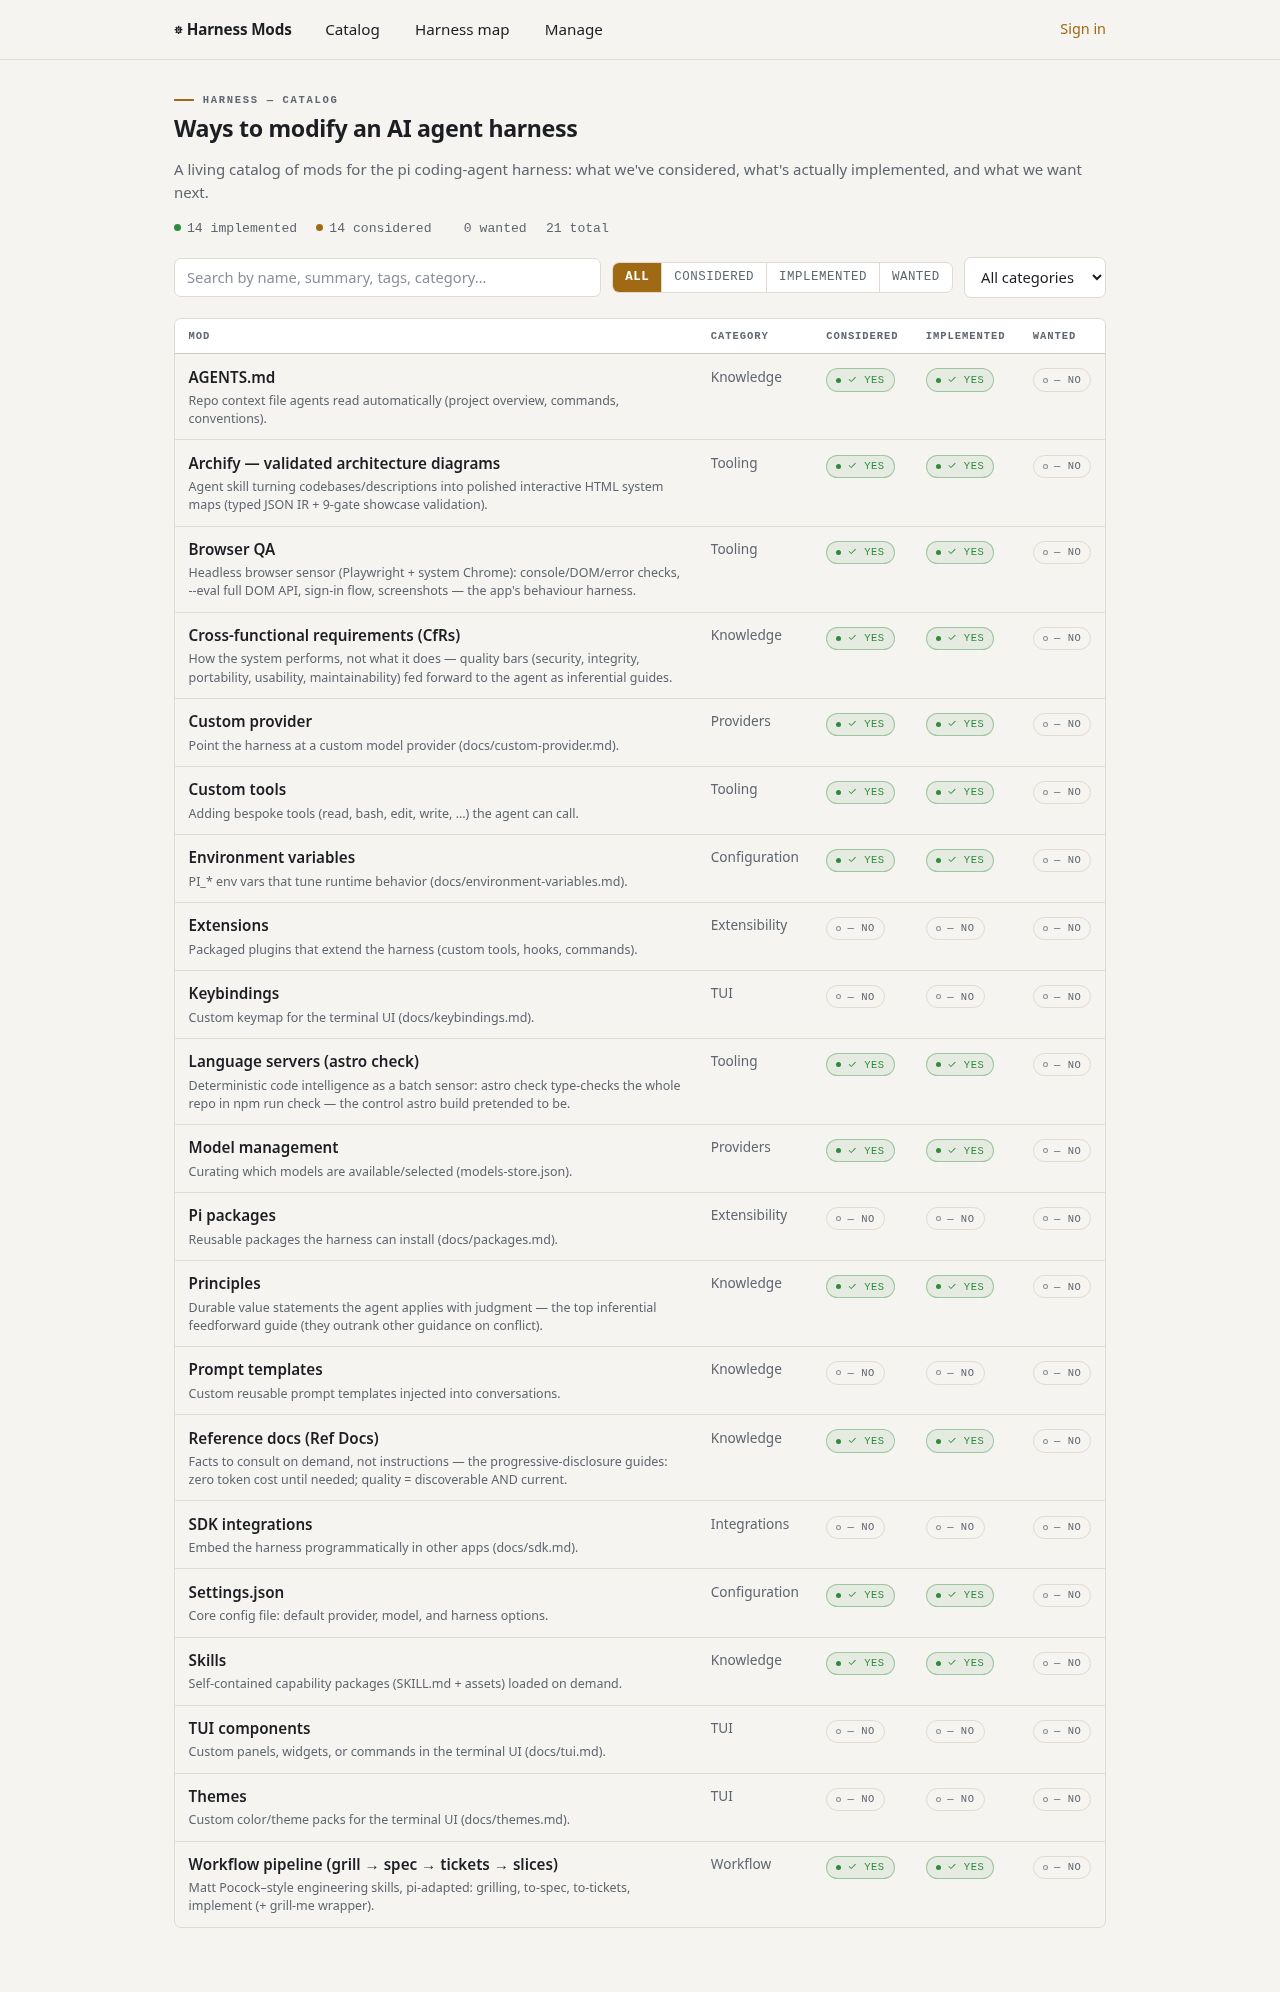
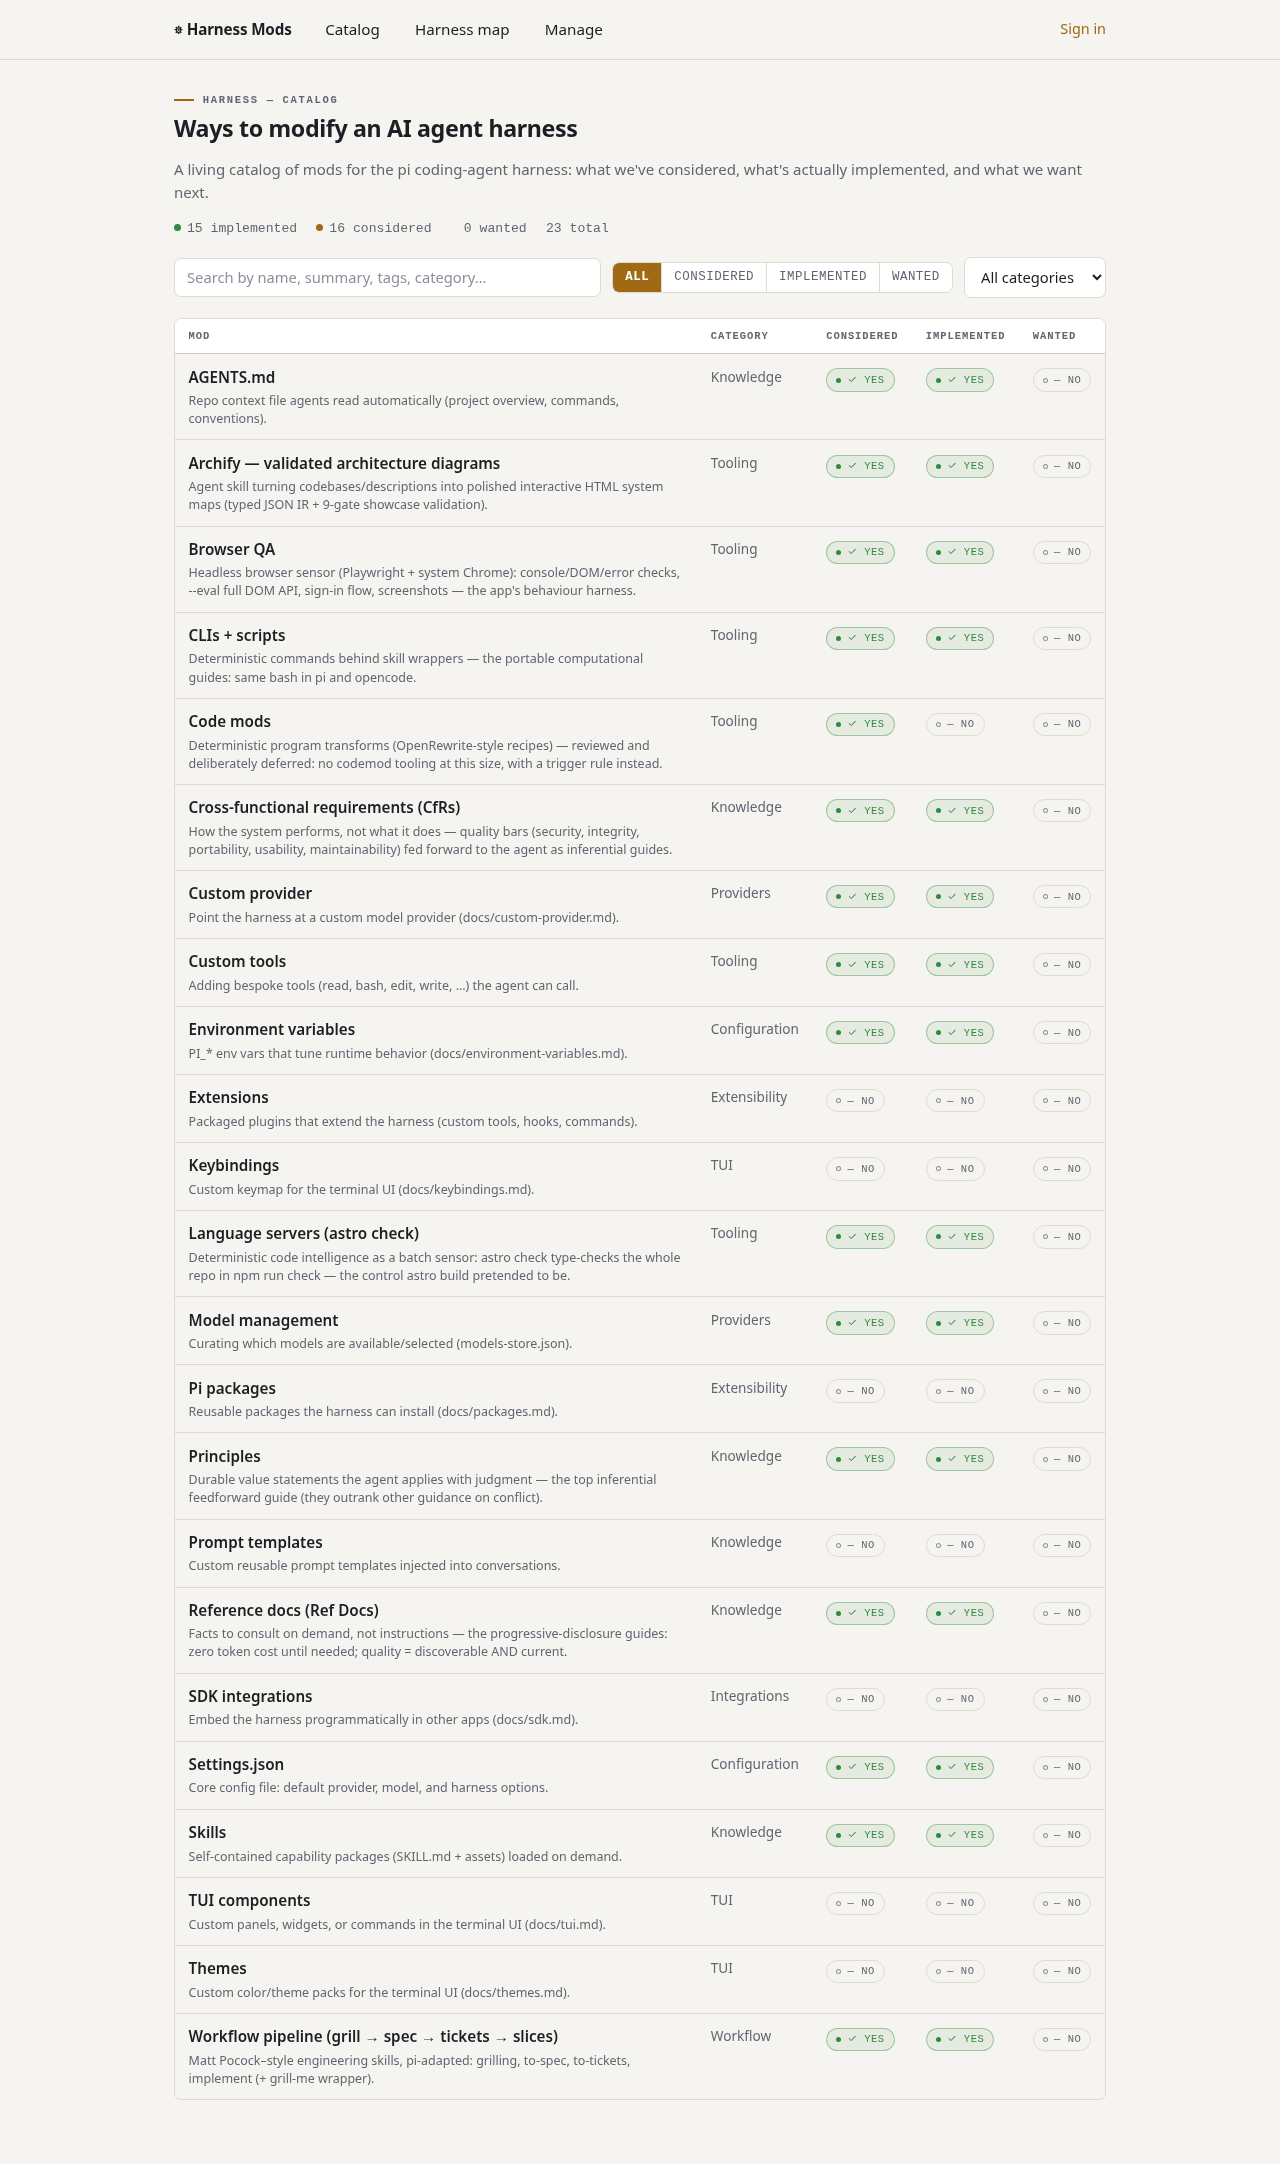
code mod

diff --git a/scripts/seed.ts b/scripts/seed.ts
@@ -412,6 +412,24 @@ Three placements: mid-loop via bash (facts, diagrams, browser evidence), check a
       { label: 'our review (fig 2)', url: 'docs/Harness review — feedforward guides.md' },
     ],
   },
+  {
+    title: 'Code mods',
+    category: 'Tooling',
+    summary: 'Deterministic program transforms (OpenRewrite-style recipes) — reviewed and deliberately deferred: no codemod tooling at this size, with a trigger rule instead.',
+    body: `Fig 2's last feedforward guide (computational): deterministic program transformations — AST rewrites, migration recipes, scaffolders — that put code in the desired shape without LLM judgment. The agent says "apply recipe X" instead of hand-editing dozens of files probabilistically.
+
+**Status: verified gap, not neglect (2026-09).** Grep finds only the word "codemods" in the article-summary doc; no jscodeshift / recast / OpenRewrite / scaffolders anywhere. Rationale: ~30-file single-user tool — every candidate change is rare and reads better as a reviewed hand-edit (Minimalism; the Performance/scalability CfR explicitly forbids over-engineering here).
+
+**Trigger rule instead of tooling:** the third occurrence of the same mechanical multi-file edit gets encoded as a script, shipped in skill + script form (see the CLIs + scripts mod). Named candidates: seed-mirror generation, repetitive Astro/API-route scaffolding, the TS 6→7 pin flip.`,
+    considered: true,
+    implemented: false,
+    wanted: false,
+    tags: ['codemods', 'feedforward', 'guides', 'deferred'],
+    links: [
+      { label: 'article — guides', url: 'https://martinfowler.com/articles/harness-engineering.html' },
+      { label: 'OpenRewrite recipes', url: 'https://docs.openrewrite.org/' },
+    ],
+  },
 ];
 
 async function upsertMods() {

diff --git a/docs/Harness decisions.md b/docs/Harness decisions.md
@@ -3,7 +3,7 @@
 Decision record for applying ["Harness engineering for coding agent users"](https://martinfowler.com/articles/harness-engineering.html)
 (Böckeler) to this repo — **one section per element, added as we review the
 article 1 by 1**. Covered so far: **Principles · CfRs · Rules · Ref Docs ·
-How-tos · Language Servers (batch + interactive, pi-only) · CLIs, scripts**.
+How-tos · Language Servers (batch + interactive, pi-only) · CLIs, scripts · Code mods**.
 
 The agent-visible copies live in `AGENTS.md` (read every turn); this doc holds
 the decisions, the reasoning, and the incidents that earned them. Companion
@@ -252,3 +252,32 @@ Decisions (2026-09-09 — reviewed, verified present):
    (c) Firecrawl budget has no sensor — proposal: a warn-only
    `--status` line (never fail) so cost is visible before the skills burn
    it.
+
+---
+
+## Code mods
+
+Computational (⚙) feedforward, Fig 2's last guide row — the article's
+example: *"a tool with access to OpenRewrite recipes."* Deterministic
+program transformations (AST rewrites, migration recipes, scaffolders)
+that put code in the desired shape without LLM judgment: the agent says
+"apply recipe X" instead of hand-editing dozens of files probabilistically.
+Sibling to CLIs/scripts, but it *writes code precisely* where they fetch
+facts or check results.
+
+Decisions (2026-09-09 — reviewed, deliberately deferred):
+
+1. **No codemod tooling adopted — verified gap, not neglect.** Grep over
+   the repo finds only the word "codemods" in the article-summary doc; no
+   jscodeshift / recast / OpenRewrite / scaffolders, no local transform
+   scripts. Rationale: ~30-file single-user tool; every candidate change
+   is rare and reads better as a reviewed hand-edit (Minimalism; CfR 6
+   explicitly forbids over-engineering here).
+2. **A trigger rule instead of tooling.** The third occurrence of the same
+   mechanical multi-file edit gets encoded as a script — which then ships
+   in skill + script form per the CLIs decision. Named candidates, should
+   they ever hurt enough: seed-mirror generation (the catalog-mirror rule
+   currently runs on discipline), repetitive Astro/API-route scaffolding,
+   the TS 6→7 pin flip when Astro supports it.
+3. **Catalog mod added** so the feedforward set reads complete and the
+   deferral is visible, not tribal.
